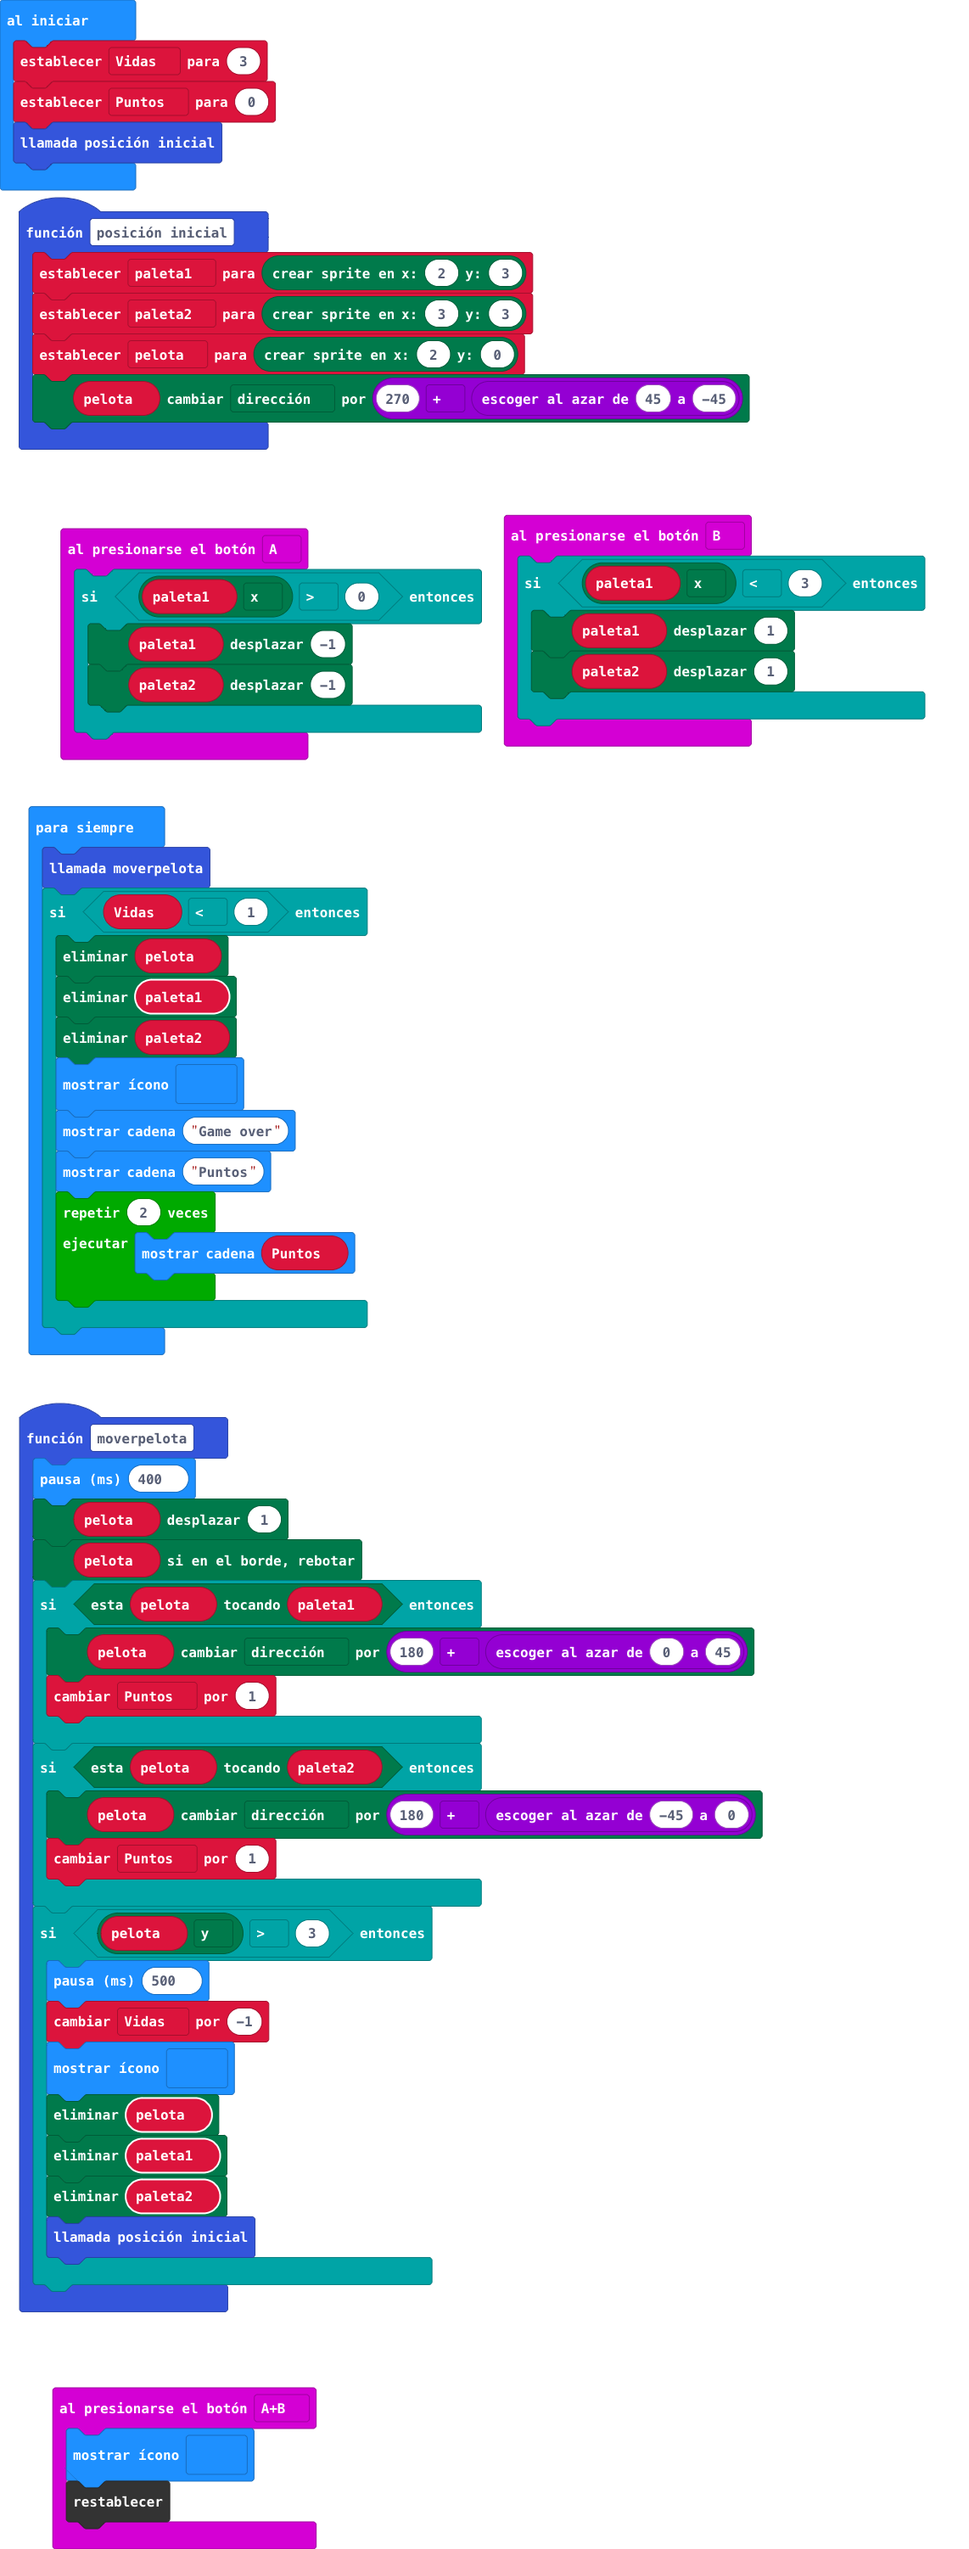
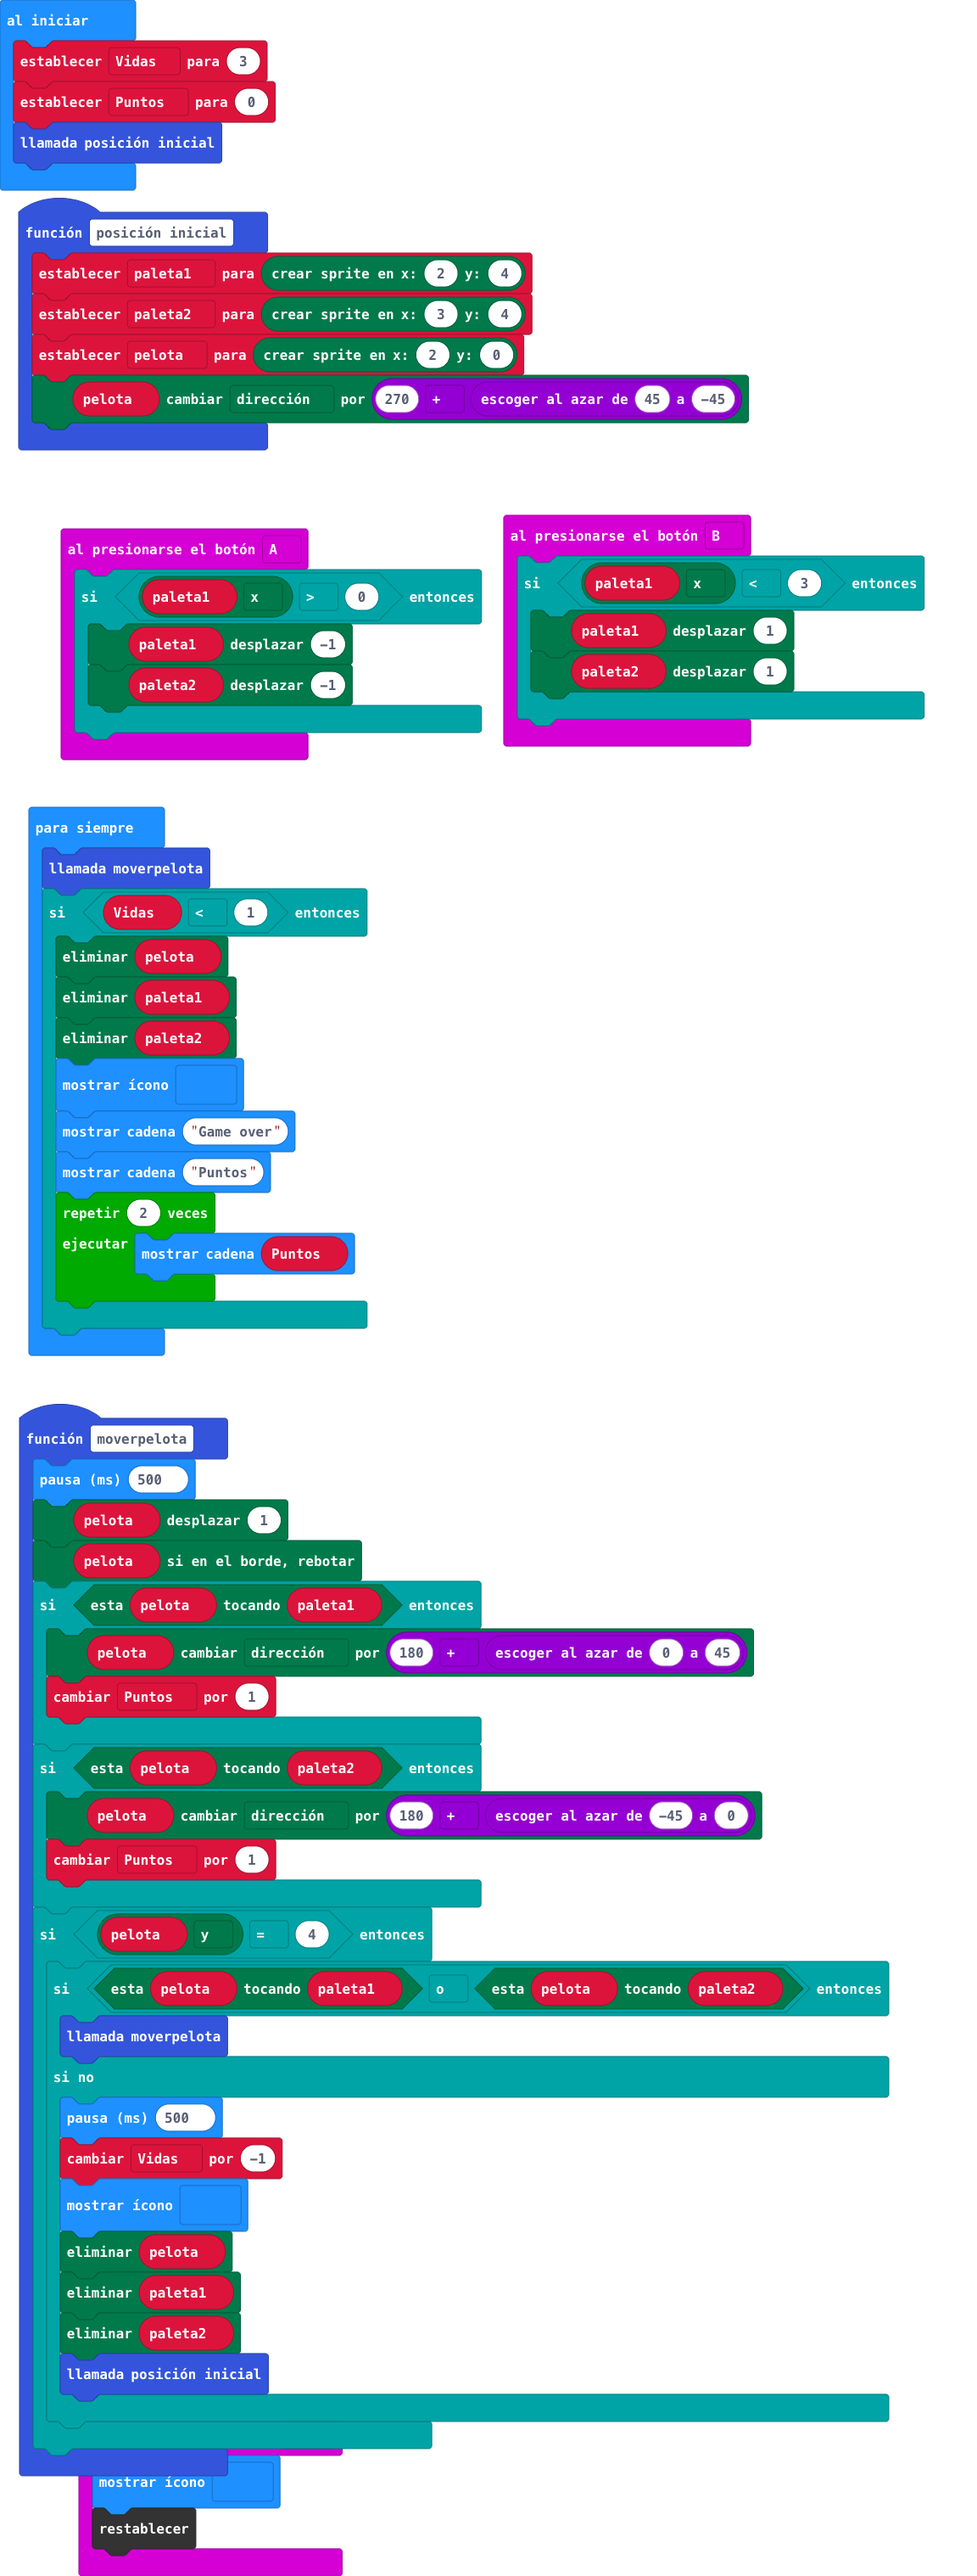
paleta en fila 4

Changed region(s): [[0.0, 0.0, 0.9807, 1.0], [0.3065, 0.9907, 0.3678, 1.0]]

diff --git a/main.ts b/main.ts
@@ -5,8 +5,8 @@ input.onButtonPressed(Button.A, function () {
     }
 })
 function posición_inicial () {
-    paleta1 = game.createSprite(2, 3)
-    paleta2 = game.createSprite(3, 3)
+    paleta1 = game.createSprite(2, 4)
+    paleta2 = game.createSprite(3, 4)
     pelota = game.createSprite(2, 0)
     pelota.change(LedSpriteProperty.Direction, 270 + randint(45, -45))
 }
@@ -21,7 +21,7 @@ input.onButtonPressed(Button.B, function () {
     }
 })
 function moverpelota () {
-    basic.pause(400)
+    basic.pause(500)
     pelota.move(1)
     pelota.ifOnEdgeBounce()
     if (pelota.isTouching(paleta1)) {
@@ -32,14 +32,18 @@ function moverpelota () {
         pelota.change(LedSpriteProperty.Direction, 180 + randint(-45, 0))
         Puntos += 1
     }
-    if (pelota.get(LedSpriteProperty.Y) > 3) {
-        basic.pause(500)
-        Vidas += -1
-        basic.showIcon(IconNames.Triangle)
-        pelota.delete()
-        paleta1.delete()
-        paleta2.delete()
-        posición_inicial()
+    if (pelota.get(LedSpriteProperty.Y) == 4) {
+        if (pelota.isTouching(paleta1) || pelota.isTouching(paleta2)) {
+            moverpelota()
+        } else {
+            basic.pause(500)
+            Vidas += -1
+            basic.showIcon(IconNames.No)
+            pelota.delete()
+            paleta1.delete()
+            paleta2.delete()
+            posición_inicial()
+        }
     }
 }
 let pelota: game.LedSprite = null
